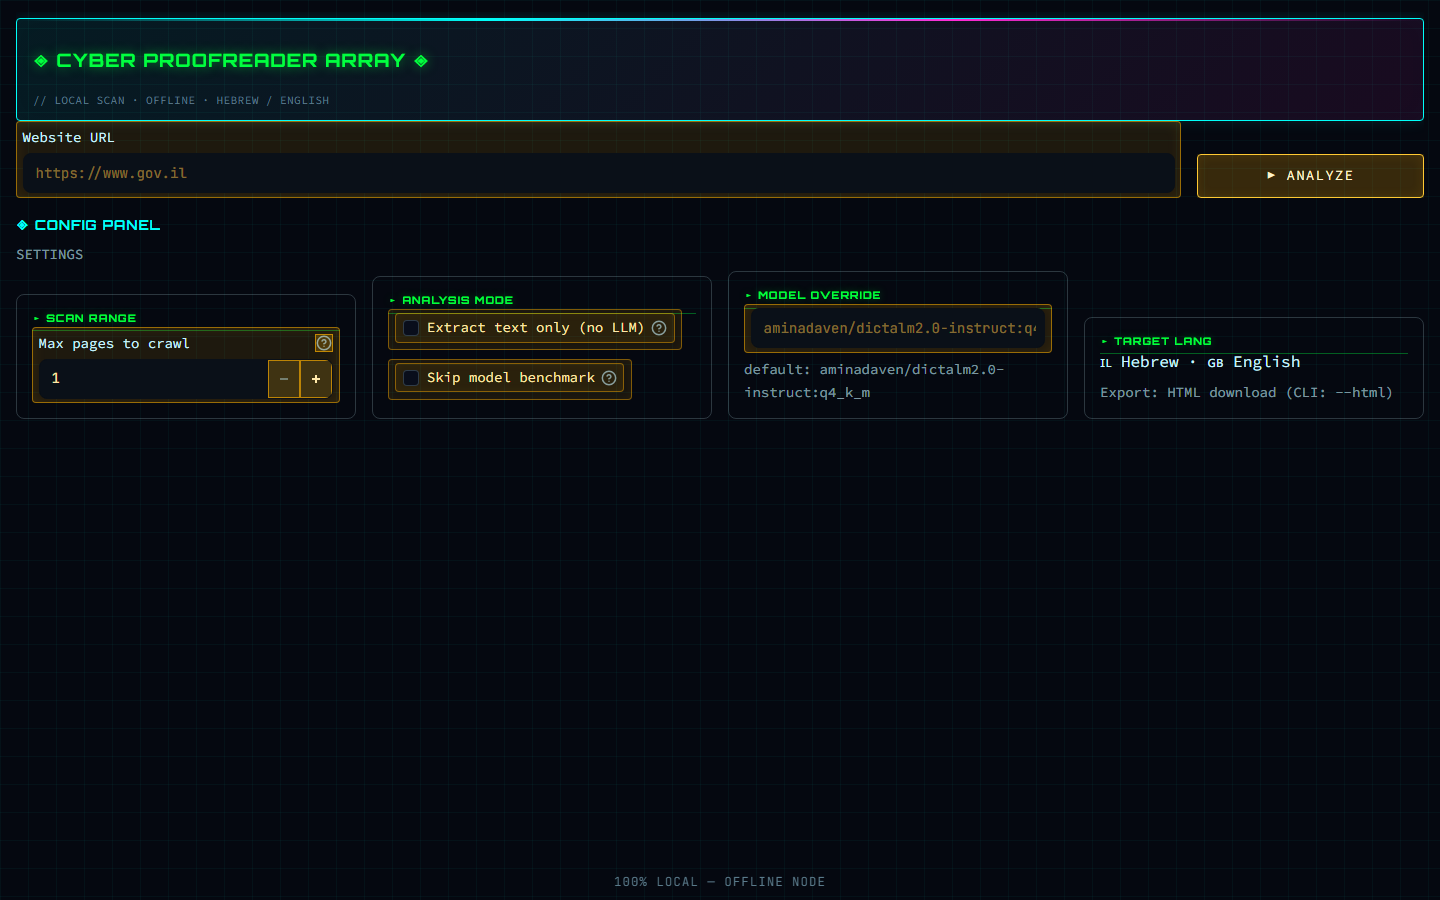
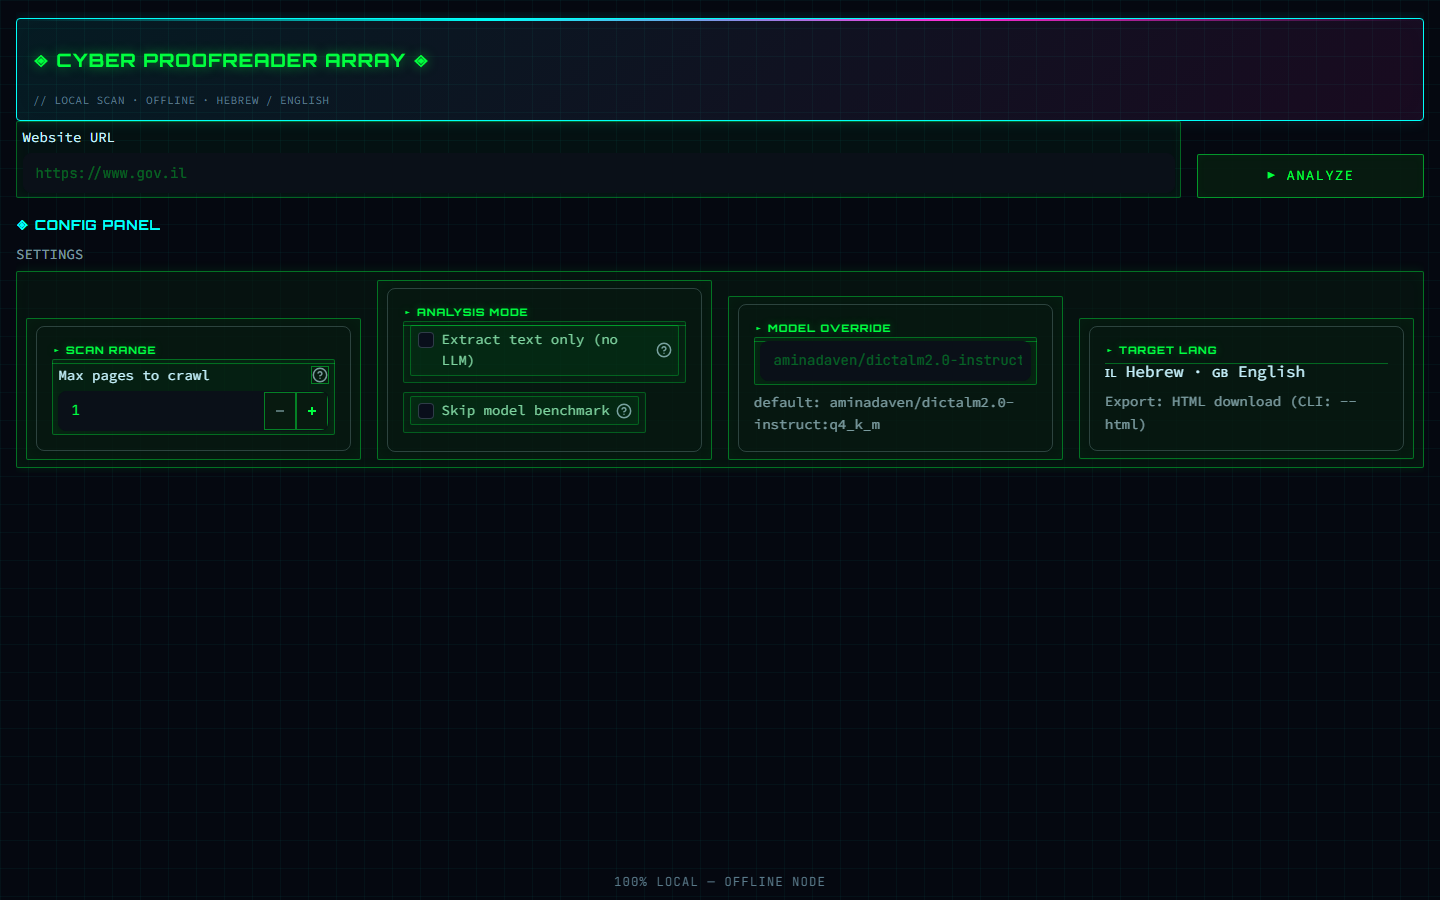
Update README project goal, GUI screenshot, and tactical cyber styling.
Adds Hebrew RTL project description, refreshes the GUI preview image, and applies military-green interactive controls with config panel entrance animation.

Changed region(s): [[0.0, 0.3111, 0.9688, 0.5289], [0.0, 0.1244, 1.0, 0.2178], [0.7812, 0.4978, 0.9688, 0.5289]]

diff --git a/ui/styles.py b/ui/styles.py
@@ -1,135 +1,4 @@
-INTERACTIVE_CSS = """
-.stButton > button,
-button[data-testid="stBaseButton-primary"],
-button[data-testid="stBaseButton-secondary"],
-button[data-testid="stBaseButton-primaryFormSubmit"],
-[data-testid="stBaseButton-primary"],
-[data-testid="stBaseButton-secondary"] {
-    background: rgba(255, 176, 0, 0.2) !important;
-    background-color: rgba(255, 176, 0, 0.2) !important;
-    border: 1px solid #ffc933 !important;
-    color: #fff4cc !important;
-    font-family: 'Orbitron', sans-serif !important;
-    font-weight: 600 !important;
-    letter-spacing: 0.08em !important;
-    text-transform: uppercase !important;
-    border-radius: 4px !important;
-    min-height: 2.75rem !important;
-    box-shadow: 0 0 18px rgba(255, 176, 0, 0.38), inset 0 0 12px rgba(255, 176, 0, 0.1) !important;
-    transition: all 0.2s ease !important;
-}
-
-.stButton > button:hover,
-button[data-testid="stBaseButton-primary"]:hover,
-button[data-testid="stBaseButton-secondary"]:hover {
-    background: rgba(255, 176, 0, 0.32) !important;
-    background-color: rgba(255, 176, 0, 0.32) !important;
-    border-color: #ffd966 !important;
-    color: #fff8dc !important;
-    box-shadow: 0 0 28px rgba(255, 176, 0, 0.55), inset 0 0 16px rgba(255, 176, 0, 0.14) !important;
-}
-
-[data-testid="stTextInput"],
-[data-testid="stNumberInput"],
-.stTextInput,
-.stNumberInput {
-    background: rgba(255, 176, 0, 0.1) !important;
-    border: 1px solid rgba(255, 176, 0, 0.55) !important;
-    border-radius: 4px !important;
-    padding: 0.2rem 0.35rem !important;
-    box-shadow: inset 0 0 14px rgba(255, 176, 0, 0.1) !important;
-}
-
-[data-testid="stTextInput"] [data-baseweb="input"],
-[data-testid="stNumberInput"] [data-baseweb="input"],
-[data-testid="stTextInput"] [data-baseweb="base-input"],
-[data-testid="stNumberInput"] [data-baseweb="base-input"],
-div[data-baseweb="input"] {
-    background: #142436 !important;
-    background-color: #142436 !important;
-    border: 1px solid rgba(255, 176, 0, 0.65) !important;
-    border-radius: 4px !important;
-    box-shadow: inset 0 0 10px rgba(255, 176, 0, 0.12) !important;
-}
-
-[data-testid="stTextInput"] input,
-[data-testid="stNumberInput"] input,
-.stTextInput input,
-.stNumberInput input {
-    background: transparent !important;
-    background-color: transparent !important;
-    color: #ffe8a8 !important;
-    border: none !important;
-    min-height: 2.75rem !important;
-    font-family: 'JetBrains Mono', monospace !important;
-}
-
-[data-testid="stTextInput"] input::placeholder {
-    color: rgba(255, 200, 80, 0.5) !important;
-}
-
-[data-testid="stTextInput"] [data-baseweb="input"]:focus-within,
-[data-testid="stNumberInput"] [data-baseweb="input"]:focus-within {
-    border-color: #ffd966 !important;
-    box-shadow: 0 0 16px rgba(255, 176, 0, 0.4), inset 0 0 12px rgba(255, 176, 0, 0.14) !important;
-}
-
-[data-testid="stNumberInput"] button {
-    background: rgba(255, 176, 0, 0.22) !important;
-    background-color: rgba(255, 176, 0, 0.22) !important;
-    border: 1px solid rgba(255, 176, 0, 0.65) !important;
-    color: #ffe8a8 !important;
-}
-
-[data-testid="stNumberInput"] button:hover {
-    background: rgba(255, 176, 0, 0.34) !important;
-    background-color: rgba(255, 176, 0, 0.34) !important;
-    border-color: #ffd966 !important;
-    color: #fff4cc !important;
-}
-
-[data-testid="stCheckbox"],
-[data-testid="stCheckbox"] label {
-    background: rgba(255, 176, 0, 0.08) !important;
-    border: 1px solid rgba(255, 176, 0, 0.45) !important;
-    border-radius: 4px !important;
-    padding: 0.2rem 0.4rem !important;
-    margin-bottom: 0.2rem !important;
-    box-shadow: inset 0 0 10px rgba(255, 176, 0, 0.06) !important;
-}
-
-[data-testid="stCheckbox"] label span,
-[data-testid="stCheckbox"] label p,
-[data-testid="stCheckbox"] label div {
-    color: #ffe8a8 !important;
-}
-
-[data-testid="stCheckbox"] input[type="checkbox"] {
-    accent-color: #ffb000 !important;
-}
-
-[data-testid="stExpander"] summary,
-[data-testid="stExpander"] details {
-    background: rgba(255, 176, 0, 0.1) !important;
-    border: 1px solid rgba(255, 176, 0, 0.45) !important;
-    border-radius: 4px !important;
-    color: #ffe8a8 !important;
-}
-
-[data-testid="stExpander"] summary:hover {
-    background: rgba(255, 176, 0, 0.18) !important;
-    border-color: #ffd966 !important;
-}
-
-div[data-testid="stHorizontalBlock"]:has([data-testid="stTextInput"]) {
-    align-items: flex-end !important;
-}
-
-div[data-testid="stHorizontalBlock"]:has([data-testid="stTextInput"]) [data-testid="column"]:last-child .stButton {
-    margin-bottom: 0 !important;
-    padding-bottom: 0 !important;
-}
-"""
+from interactive_css import INTERACTIVE_CSS
 
 CUSTOM_CSS = """
 <style>
@@ -144,9 +13,7 @@ CUSTOM_CSS = """
     --cyber-amber: #ffb000;
     --cyber-text: #c8f4ff;
     --cyber-dim: #5a7a8a;
-    --cyber-interactive-bg: #142436;
-    --cyber-interactive-border: #ffb000;
-    --cyber-interactive-glow: rgba(255, 176, 0, 0.28);
+    --cyber-tactical: #0a1410;
 }
 
 .stApp {
@@ -307,12 +174,50 @@ section[data-testid="stSidebar"],
     text-shadow: 0 0 8px rgba(0, 255, 65, 0.35);
 }
 
-[data-testid="stVerticalBlockBorderWrapper"] {
-    border: 1px solid rgba(0, 255, 249, 0.35) !important;
-    background: rgba(0, 255, 249, 0.04) !important;
-    box-shadow: 0 0 10px rgba(0, 255, 249, 0.06) !important;
-    border-radius: 4px !important;
+[data-testid="stVerticalBlockBorderWrapper"],
+[data-testid="stLayoutWrapper"]:has(.config-section) {
+    border: 1px solid rgba(0, 255, 65, 0.4) !important;
+    background: rgba(8, 28, 16, 0.55) !important;
+    box-shadow: 0 0 12px rgba(0, 255, 65, 0.1), inset 0 0 16px rgba(0, 255, 65, 0.03) !important;
+    border-radius: 2px !important;
     padding: 0.45rem 0.55rem !important;
+    overflow: visible !important;
+}
+
+@keyframes config-box-pop {
+    0% {
+        transform: scale(1.16);
+        opacity: 0.55;
+        box-shadow: 0 0 40px rgba(0, 255, 65, 0.45), inset 0 0 20px rgba(0, 255, 249, 0.12) !important;
+        border-color: rgba(0, 255, 249, 0.75) !important;
+    }
+    100% {
+        transform: scale(1);
+        opacity: 1;
+        box-shadow: 0 0 12px rgba(0, 255, 65, 0.1), inset 0 0 16px rgba(0, 255, 65, 0.03) !important;
+        border-color: rgba(0, 255, 65, 0.4) !important;
+    }
+}
+
+[data-testid="stHorizontalBlock"]:last-of-type [data-testid="stLayoutWrapper"]:has(.config-section) {
+    animation: config-box-pop 0.75s cubic-bezier(0.22, 1.12, 0.36, 1) both;
+    transform-origin: center bottom;
+}
+
+[data-testid="stHorizontalBlock"]:last-of-type [data-testid="stColumn"]:nth-child(1) [data-testid="stLayoutWrapper"]:has(.config-section) {
+    animation-delay: 0.04s;
+}
+
+[data-testid="stHorizontalBlock"]:last-of-type [data-testid="stColumn"]:nth-child(2) [data-testid="stLayoutWrapper"]:has(.config-section) {
+    animation-delay: 0.12s;
+}
+
+[data-testid="stHorizontalBlock"]:last-of-type [data-testid="stColumn"]:nth-child(3) [data-testid="stLayoutWrapper"]:has(.config-section) {
+    animation-delay: 0.2s;
+}
+
+[data-testid="stHorizontalBlock"]:last-of-type [data-testid="stColumn"]:nth-child(4) [data-testid="stLayoutWrapper"]:has(.config-section) {
+    animation-delay: 0.28s;
 }
 
 """ + INTERACTIVE_CSS + """

diff --git a/ui/interactive_css.py b/ui/interactive_css.py
@@ -1,0 +1,132 @@
+INTERACTIVE_CSS = """
+.stButton > button,
+button[data-testid="stBaseButton-primary"],
+button[data-testid="stBaseButton-secondary"],
+button[data-testid="stBaseButton-primaryFormSubmit"],
+[data-testid="stBaseButton-primary"],
+[data-testid="stBaseButton-secondary"] {
+    background: rgba(8, 28, 16, 0.92) !important;
+    background-color: rgba(8, 28, 16, 0.92) !important;
+    border: 1px solid rgba(0, 255, 65, 0.55) !important;
+    color: #00ff41 !important;
+    font-family: 'Orbitron', sans-serif !important;
+    font-weight: 600 !important;
+    letter-spacing: 0.08em !important;
+    text-transform: uppercase !important;
+    border-radius: 2px !important;
+    min-height: 2.75rem !important;
+    box-shadow: 0 0 14px rgba(0, 255, 65, 0.22), inset 0 0 10px rgba(0, 255, 65, 0.04) !important;
+    transition: all 0.2s ease !important;
+}
+
+.stButton > button:hover,
+button[data-testid="stBaseButton-primary"]:hover,
+button[data-testid="stBaseButton-secondary"]:hover {
+    background: rgba(12, 40, 22, 0.95) !important;
+    background-color: rgba(12, 40, 22, 0.95) !important;
+    border-color: #00ff41 !important;
+    color: #b8ffd0 !important;
+    box-shadow: 0 0 22px rgba(0, 255, 65, 0.38), inset 0 0 14px rgba(0, 255, 65, 0.08) !important;
+}
+
+[data-testid="stTextInput"],
+[data-testid="stNumberInput"],
+.stTextInput,
+.stNumberInput {
+    background: rgba(0, 255, 65, 0.04) !important;
+    border: 1px solid rgba(0, 255, 65, 0.35) !important;
+    border-radius: 2px !important;
+    padding: 0.2rem 0.35rem !important;
+    box-shadow: inset 0 0 12px rgba(0, 255, 65, 0.05) !important;
+}
+
+[data-testid="stTextInput"] [data-baseweb="input"],
+[data-testid="stNumberInput"] [data-baseweb="input"],
+[data-testid="stTextInput"] [data-baseweb="base-input"],
+[data-testid="stNumberInput"] [data-baseweb="base-input"],
+div[data-baseweb="input"] {
+    background: #0a1410 !important;
+    background-color: #0a1410 !important;
+    border: 1px solid rgba(0, 255, 249, 0.35) !important;
+    border-radius: 2px !important;
+    box-shadow: inset 0 0 10px rgba(0, 255, 249, 0.06) !important;
+}
+
+[data-testid="stTextInput"] input,
+[data-testid="stNumberInput"] input,
+.stTextInput input,
+.stNumberInput input {
+    background: transparent !important;
+    background-color: transparent !important;
+    color: #00ff41 !important;
+    border: none !important;
+    min-height: 2.75rem !important;
+    font-family: 'JetBrains Mono', monospace !important;
+}
+
+[data-testid="stTextInput"] input::placeholder {
+    color: rgba(0, 255, 65, 0.35) !important;
+}
+
+[data-testid="stTextInput"] [data-baseweb="input"]:focus-within,
+[data-testid="stNumberInput"] [data-baseweb="input"]:focus-within {
+    border-color: #00fff9 !important;
+    box-shadow: 0 0 14px rgba(0, 255, 249, 0.28), inset 0 0 10px rgba(0, 255, 249, 0.08) !important;
+}
+
+[data-testid="stNumberInput"] button {
+    background: rgba(8, 28, 16, 0.9) !important;
+    background-color: rgba(8, 28, 16, 0.9) !important;
+    border: 1px solid rgba(0, 255, 65, 0.45) !important;
+    color: #00ff41 !important;
+}
+
+[data-testid="stNumberInput"] button:hover {
+    background: rgba(12, 40, 22, 0.95) !important;
+    background-color: rgba(12, 40, 22, 0.95) !important;
+    border-color: #00ff41 !important;
+    color: #b8ffd0 !important;
+}
+
+[data-testid="stCheckbox"],
+[data-testid="stCheckbox"] label {
+    background: rgba(0, 255, 65, 0.04) !important;
+    border: 1px solid rgba(0, 255, 65, 0.28) !important;
+    border-radius: 2px !important;
+    padding: 0.2rem 0.4rem !important;
+    margin-bottom: 0.2rem !important;
+    box-shadow: inset 0 0 8px rgba(0, 255, 65, 0.04) !important;
+}
+
+[data-testid="stCheckbox"] label span,
+[data-testid="stCheckbox"] label p,
+[data-testid="stCheckbox"] label div {
+    color: #7fd4a0 !important;
+}
+
+[data-testid="stCheckbox"] input[type="checkbox"] {
+    accent-color: #00ff41 !important;
+}
+
+[data-testid="stExpander"] summary,
+[data-testid="stExpander"] details {
+    background: rgba(0, 255, 65, 0.05) !important;
+    border: 1px solid rgba(0, 255, 249, 0.3) !important;
+    border-radius: 2px !important;
+    color: #7fd4a0 !important;
+}
+
+[data-testid="stExpander"] summary:hover {
+    background: rgba(0, 255, 65, 0.1) !important;
+    border-color: #00fff9 !important;
+}
+
+div[data-testid="stHorizontalBlock"]:has([data-testid="stTextInput"]) {
+    align-items: flex-end !important;
+}
+
+div[data-testid="stHorizontalBlock"]:has([data-testid="stTextInput"]) [data-testid="stColumn"]:last-child .stButton {
+    margin-bottom: 0 !important;
+    padding-bottom: 0 !important;
+}
+"""

diff --git a/README.md b/README.md
@@ -15,6 +15,7 @@ An automated agent that accepts a website URL, extracts user-visible text, and c
 ## 📑 Table of Contents
 
 - [📋 Overview](#-overview)
+  - [📌 מטרת הפרויקט](#-מטרת-הפרויקט)
 - [⚡ Quick Start](#-quick-start)
 - [🏗 Architecture](#-architecture)
 - [📁 Project Structure](#-project-structure)
@@ -35,6 +36,20 @@ An automated agent that accepts a website URL, extracts user-visible text, and c
 
 ## 📋 Overview
 
+### 📌 מטרת הפרויקט
+
+<div dir="rtl" align="right">
+
+פיתוח Agent אוטומטי שמקבל מהמשתמש כתובת של אתר אינטרנט, סורק עמודים באתר, מאתר טקסטים גלויים למשתמש, ובודק האם קיימות בהם שגיאות כתיב או ניסוחים חשודים.
+
+ה-Agent חייב להשתמש במודל שפה לוקאלי שרץ על מחשב המפתח, ללא שליחת תוכן האתר לשירותי ענן חיצוניים.
+
+יש לחבר מודל שרלוונטי לסוג הבעיה המתוארת — ולהסביר מדוע נבחר המודל המסוים.
+
+ה-Agent ירוץ בעברית ובאנגלית, ויש לבצע השוואה מדעית של לפחות 6 מודלים שונים.
+
+</div>
+
 The system supports **Hebrew** and **English** websites. The pipeline:
 
 1. 🌐 User provides a URL.
@@ -52,7 +67,7 @@ During analysis, progress bars show model benchmarking and chunk-by-chunk analys
 
 ![Cyber Proofreader GUI — full interface](ui/assets/gui-full.png)
 
-*Streamlit GUI: URL input, config panel (scan range, analysis mode, model override, target language), live results after scan, and HTML export.*
+*Current cyber-themed GUI: URL + ▶ ANALYZE, config panel (scan range, analysis mode, model override, languages), live results after scan, HTML export.*
 
 ---
 
